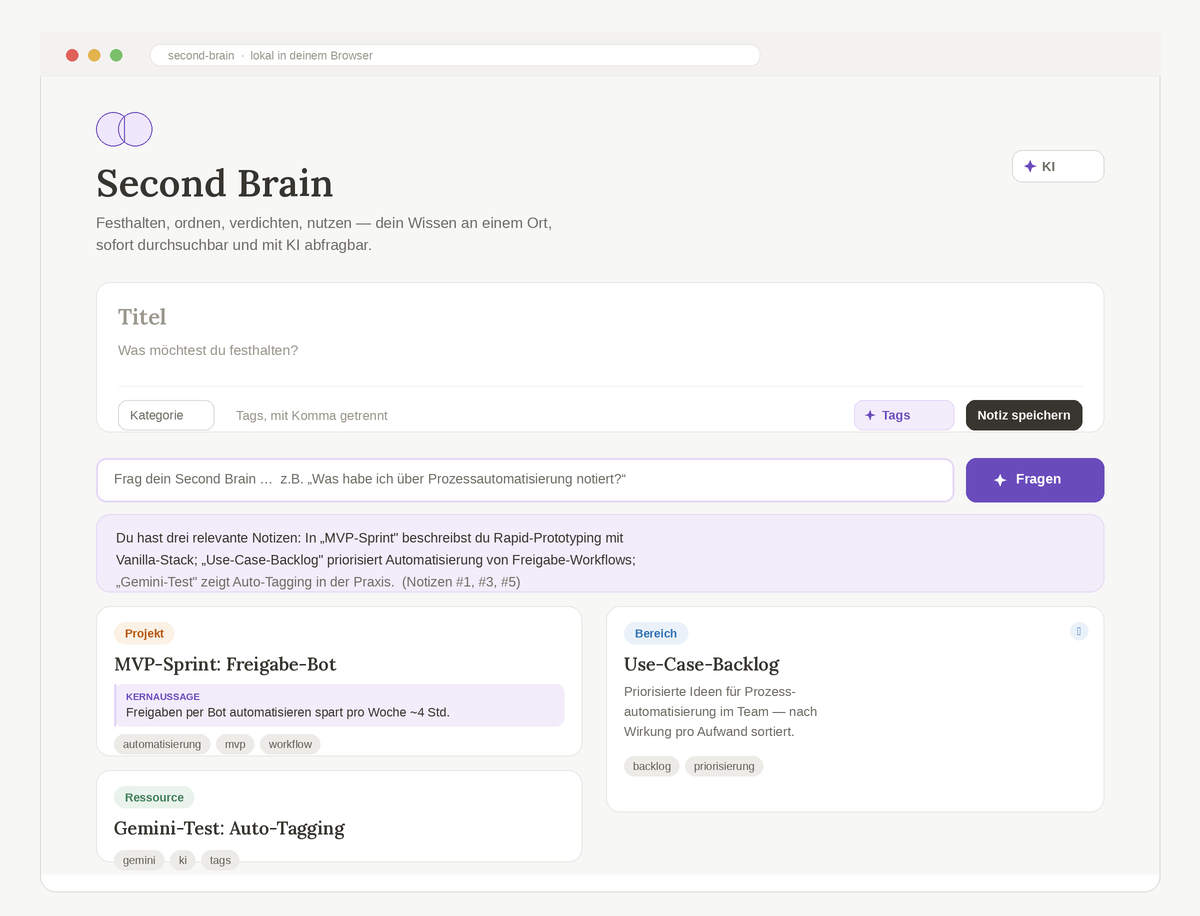
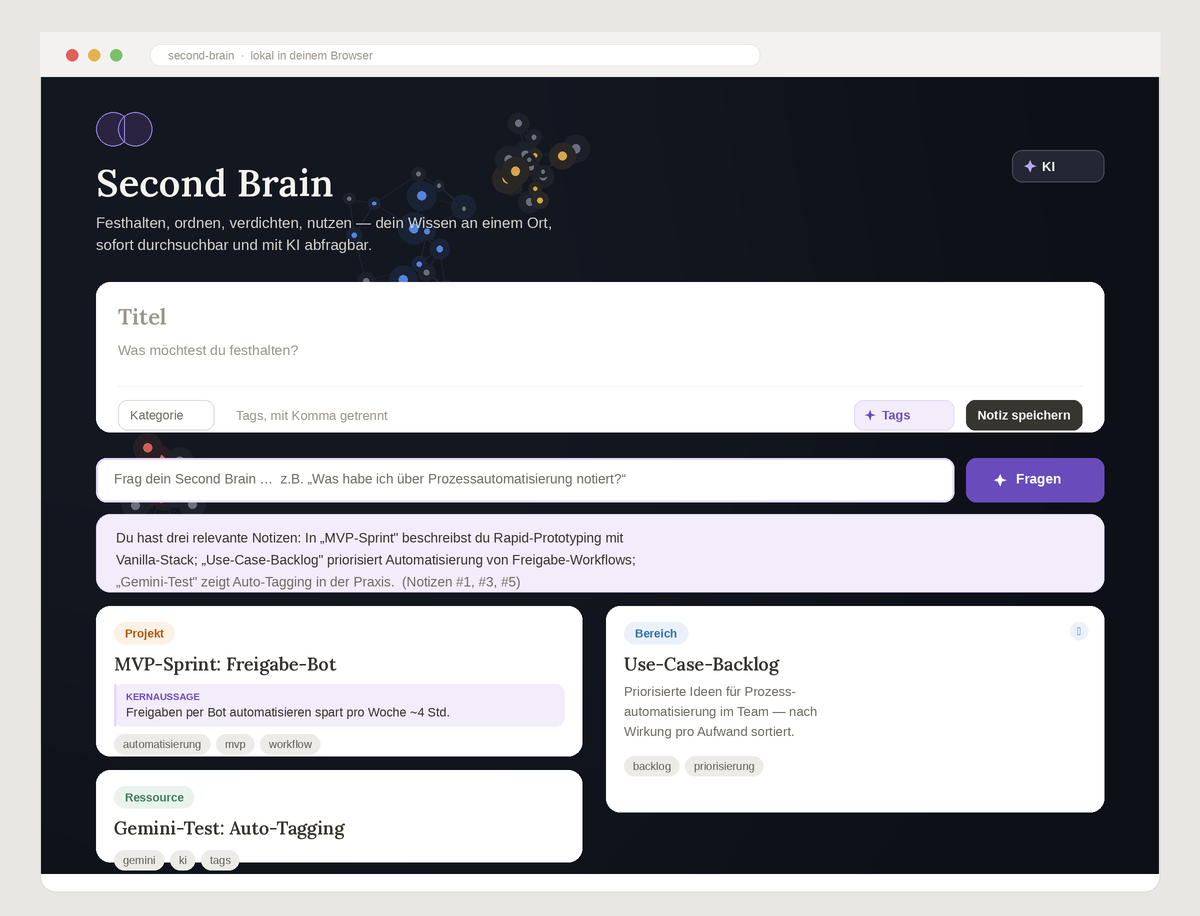
Add files via upload

diff --git a/graph-bg.js b/graph-bg.js
@@ -1,0 +1,160 @@
+/**
+ * Wissensgraph-Hintergrund — ein lebendiges Netz aus verknüpften Notizen.
+ *
+ * Rein dekorativ: eigenständiges Canvas hinter der App, ohne Einfluss auf die
+ * App-Logik. Geclusterte Knoten (wie eine Graph-View) driften sanft, Kanten
+ * verbinden Nachbarn, die Maus erzeugt einen leichten Parallax-Effekt.
+ * Respektiert `prefers-reduced-motion` (dann statisch, keine Animation).
+ */
+(function () {
+  const canvas = document.getElementById('bg-graph');
+  if (!canvas) return;
+  const ctx = canvas.getContext('2d');
+  const reduce = window.matchMedia('(prefers-reduced-motion: reduce)').matches;
+
+  // Farbpalette: überwiegend neutral, mit farbigen "Themen-Clustern"
+  const COLORS = {
+    blue: '#5b8def',
+    purple: '#8b6fe0',
+    red: '#e0655a',
+    amber: '#e6b34e',
+    green: '#4f9d78',
+    grey: '#717784'
+  };
+  const CLUSTER_THEMES = ['blue', 'purple', 'red', 'amber', 'green', 'grey', 'blue', 'grey'];
+
+  let W, H, dpr, nodes = [], edges = [], t = 0;
+  const mouse = { x: 0, y: 0, tx: 0, ty: 0 };
+
+  const rand = (a, b) => a + Math.random() * (b - a);
+  // grobe Normalverteilung für organische Cluster
+  const gauss = spread => ((Math.random() + Math.random() + Math.random() - 1.5) / 1.5) * spread;
+  const clamp = (v, lo, hi) => Math.min(hi, Math.max(lo, v));
+
+  function hexA(hex, a) {
+    hex = hex.replace('#', '');
+    const r = parseInt(hex.slice(0, 2), 16);
+    const g = parseInt(hex.slice(2, 4), 16);
+    const b = parseInt(hex.slice(4, 6), 16);
+    return `rgba(${r},${g},${b},${a})`;
+  }
+
+  function build() {
+    nodes = [];
+    edges = [];
+    const count = clamp(Math.round((W * H) / 9000), 90, 240);
+    const clusterCount = Math.max(5, Math.round(count / 28));
+    const minWH = Math.min(W, H);
+
+    const centers = [];
+    for (let c = 0; c < clusterCount; c++) {
+      centers.push({
+        x: rand(W * 0.05, W * 0.95),
+        y: rand(H * 0.05, H * 0.95),
+        theme: CLUSTER_THEMES[c % CLUSTER_THEMES.length],
+        spread: rand(minWH * 0.07, minWH * 0.15)
+      });
+    }
+
+    for (let i = 0; i < count; i++) {
+      const c = centers[Math.floor(Math.random() * centers.length)];
+      const colorKey = Math.random() < 0.45 ? 'grey' : c.theme; // meist neutral
+      const x = clamp(c.x + gauss(c.spread), 0, W);
+      const y = clamp(c.y + gauss(c.spread), 0, H);
+      nodes.push({
+        x, y, bx: x, by: y,
+        r: rand(1.1, 3.2) * (colorKey === 'grey' ? 1 : 1.15),
+        color: COLORS[colorKey],
+        depth: rand(0.4, 1),          // Parallax-Tiefe
+        phase: rand(0, Math.PI * 2),
+        amp: rand(6, 20),             // Bewegungsamplitude
+        spd: rand(0.15, 0.5)
+      });
+    }
+
+    // Kanten: jeder Knoten zu seinen nächsten Nachbarn innerhalb eines Radius
+    const R = minWH * 0.12;
+    const seen = new Set();
+    for (let i = 0; i < nodes.length; i++) {
+      const near = [];
+      for (let j = 0; j < nodes.length; j++) {
+        if (i === j) continue;
+        const dx = nodes[i].bx - nodes[j].bx;
+        const dy = nodes[i].by - nodes[j].by;
+        const d = dx * dx + dy * dy;
+        if (d < R * R) near.push([d, j]);
+      }
+      near.sort((a, b) => a[0] - b[0]);
+      for (let n = 0; n < Math.min(near.length, 3); n++) {
+        const j = near[n][1];
+        const key = i < j ? i + '-' + j : j + '-' + i;
+        if (!seen.has(key)) { seen.add(key); edges.push([Math.min(i, j), Math.max(i, j)]); }
+      }
+    }
+  }
+
+  function resize() {
+    dpr = Math.min(window.devicePixelRatio || 1, 2);
+    W = window.innerWidth;
+    H = window.innerHeight;
+    canvas.width = W * dpr;
+    canvas.height = H * dpr;
+    canvas.style.width = W + 'px';
+    canvas.style.height = H + 'px';
+    ctx.setTransform(dpr, 0, 0, dpr, 0, 0);
+    build();
+    if (reduce) draw();
+  }
+
+  function draw() {
+    ctx.clearRect(0, 0, W, H); // transparent -> dunkler Body-Gradient scheint durch
+    const edgeMax = Math.min(W, H) * 0.14;
+
+    for (const nd of nodes) {
+      if (reduce) { nd.x = nd.bx; nd.y = nd.by; continue; }
+      nd.x = nd.bx + Math.sin(t * nd.spd + nd.phase) * nd.amp + mouse.tx * nd.depth * 22;
+      nd.y = nd.by + Math.cos(t * nd.spd * 0.9 + nd.phase) * nd.amp + mouse.ty * nd.depth * 22;
+    }
+
+    ctx.lineWidth = 1;
+    for (const [a, b] of edges) {
+      const na = nodes[a], nb = nodes[b];
+      const dist = Math.hypot(na.x - nb.x, na.y - nb.y);
+      const alpha = 0.16 * (1 - dist / edgeMax);
+      if (alpha <= 0.005) continue;
+      ctx.strokeStyle = `rgba(150,165,200,${alpha.toFixed(3)})`;
+      ctx.beginPath();
+      ctx.moveTo(na.x, na.y);
+      ctx.lineTo(nb.x, nb.y);
+      ctx.stroke();
+    }
+
+    for (const nd of nodes) {
+      ctx.beginPath();
+      ctx.fillStyle = hexA(nd.color, 0.1);       // weicher Glow
+      ctx.arc(nd.x, nd.y, nd.r * 3.2, 0, Math.PI * 2);
+      ctx.fill();
+      ctx.beginPath();
+      ctx.fillStyle = nd.color;                  // Kern
+      ctx.arc(nd.x, nd.y, nd.r, 0, Math.PI * 2);
+      ctx.fill();
+    }
+  }
+
+  function loop() {
+    t += 0.016;
+    mouse.tx += (mouse.x - mouse.tx) * 0.05;
+    mouse.ty += (mouse.y - mouse.ty) * 0.05;
+    draw();
+    requestAnimationFrame(loop);
+  }
+
+  window.addEventListener('resize', resize, { passive: true });
+  window.addEventListener('mousemove', e => {
+    mouse.x = (e.clientX / window.innerWidth - 0.5) * 2;
+    mouse.y = (e.clientY / window.innerHeight - 0.5) * 2;
+  }, { passive: true });
+
+  resize();
+  if (!reduce) loop();
+})();

diff --git a/style.css b/style.css
@@ -773,3 +773,67 @@ a:focus-visible {
     scroll-behavior: auto !important;
   }
 }
+
+/* ======================================================================
+   Dunkle Bühne + Wissensgraph-Hintergrund
+   Die App-Karten bleiben hell und "schweben" über dem animierten Graph.
+   Nur Elemente, die direkt auf dem Hintergrund liegen, werden hier
+   auf hellen Text umgestellt.
+   ====================================================================== */
+
+body {
+  background: radial-gradient(1100px 780px at 28% 10%,
+              #171b24 0%, #0d1017 55%, #090b0f 100%);
+  background-attachment: fixed;
+}
+
+#bg-graph {
+  position: fixed;
+  inset: 0;
+  width: 100%;
+  height: 100%;
+  z-index: 0;
+  pointer-events: none;
+  display: block;
+}
+
+/* Inhalt liegt über dem Canvas */
+.topbar,
+.page { position: relative; z-index: 1; }
+
+/* Header-Texte auf dunklem Grund */
+.topbar h1 {
+  color: #f4f3ef;
+  text-shadow: 0 2px 26px rgba(0, 0, 0, 0.6);
+}
+
+.subtitle { color: rgba(232, 231, 226, 0.72); }
+
+/* Glas-Buttons, die direkt auf dem Hintergrund sitzen */
+#settings-btn,
+.ghost-btn {
+  background: rgba(255, 255, 255, 0.06);
+  color: rgba(240, 240, 238, 0.85);
+  border-color: rgba(255, 255, 255, 0.16);
+  -webkit-backdrop-filter: blur(6px);
+  backdrop-filter: blur(6px);
+}
+
+#settings-btn:hover,
+.ghost-btn:hover {
+  background: rgba(255, 255, 255, 0.13);
+  color: #fff;
+}
+
+/* Leerzustand & Datenleiste auf dunklem Grund */
+.empty-state { color: rgba(235, 235, 235, 0.62); }
+.data-bar { border-top-color: rgba(255, 255, 255, 0.12); }
+.data-info { color: rgba(232, 231, 226, 0.5); }
+
+/* Weiße Karten bekommen auf Dunkel mehr Tiefe */
+.composer,
+.settings-panel,
+.ask-answer,
+.note-card {
+  box-shadow: 0 6px 26px rgba(0, 0, 0, 0.32);
+}

diff --git a/index.html b/index.html
@@ -10,6 +10,8 @@
 </head>
 <body>
 
+  <canvas id="bg-graph" aria-hidden="true"></canvas>
+
   <header class="topbar">
     <div class="topbar-head">
       <div class="title-block">
@@ -98,6 +100,7 @@
 
   </main>
 
+  <script src="graph-bg.js"></script>
   <script src="script.js"></script>
 </body>
 </html>

diff --git a/README.md b/README.md
@@ -30,6 +30,7 @@ Die App bildet den Wissens-Workflow **Capture → Organize → Distill → Expre
 - **Volltextsuche** über Titel, Inhalt, Kernaussage und Tags · **Tag- & PARA-Filter** per Klick
 - **Export & Import** als JSON – volle Datenhoheit
 - **Galerie-Ansicht** im editorialen Masonry-Layout
+- **Lebendiger Wissensgraph** als animierter Hintergrund – ein Netz verknüpfter Notizen, das die Idee des „zweiten Gehirns" sichtbar macht
 - **Lokale Speicherung** im Browser (`localStorage`) – die Daten bleiben auf deinem Gerät
 - **Responsive** und barrierearm (Fokus-Ringe, `prefers-reduced-motion`)
 
@@ -55,15 +56,16 @@ Kein Build-Schritt nötig – einfach die Datei `index.html` im Browser öffnen.
 
 ## Architektur & Entscheidungen
 
-Bewusst klein gehalten – drei Dateien, kein Framework, kein Backend:
+Bewusst klein gehalten – wenige Dateien, kein Framework, kein Backend:
 
 | Datei | Aufgabe |
 |-------|---------|
 | `index.html` | Struktur & Semantik |
 | `style.css` | Design-Tokens (CSS-Variablen) & Layout |
 | `script.js` | Zustand, Rendering, `localStorage`, KI-Aufrufe (zentraler `callGemini`-Helper) |
+| `graph-bg.js` | Eigenständiger Canvas-Wissensgraph im Hintergrund (rein dekorativ, entkoppelt von der App-Logik) |
 
-**Warum flach statt Ordnerstruktur?** Bei drei Dateien erzeugt ein `src/`-Baum
+**Warum flach statt Ordnerstruktur?** Bei so wenigen Dateien erzeugt ein `src/`-Baum
 mehr Overhead als Nutzen. Die Struktur soll dem Umfang entsprechen – nicht
 umgekehrt. Wächst das Projekt (Bearbeiten, Export/Import, Tests), ist ein
 Schnitt in `src/` und `assets/` der nächste sinnvolle Schritt.